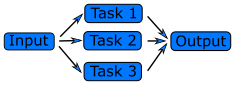
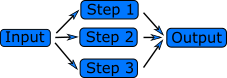
Steps instead of tasks in the diagrasm

Changed region(s): [[0.0, 0.0, 1.0, 1.0]]

diff --git a/_episodes/02-serial-and-parallel.md b/_episodes/02-serial-and-parallel.md
@@ -27,7 +27,7 @@ Well, it will be the time difference between the beginning of the steps and the 
 
 Now, you would like to build cars faster since there are impatient customers waiting in line!
 What do you do? You build two lines of conveyor belts and hire twice number of people to do the work.
-Now two cars per the same amount of time!
+Now you get two cars in the same amount of time!
 If you build three conveyor belts and hire thrice the number of people,
 you get three cars for the same amount of time.
 Or you can identify the steps which don't intefere with each other and can be executed at the same time
@@ -46,7 +46,7 @@ In the second case, the most important thing to consider is the indepedence of a
 (that is, whether a step can be executed without interfering other steps).
 This independency is called "atomicity" of an operation.
 
-In the analogy with car manufacturing, the speed of conveyor belt is the "clock" of CPU, parts are "input", doing something is "operation", and the car structure on the conveyor belt is "output". 
+In the analogy with car manufacturing, the speed of conveyor belt is the "clock" of CPU, parts are "input", doing something is an "operation", and the car structure on the conveyor belt is "output". 
 
 So, we can think of an algorithm as a series of black boxes with an input and an output.
 ![Input -> Algorithm -> Output]({{ page.root }}{% link files/serial_task_flow.png %})
@@ -58,7 +58,8 @@ parts and the output is a new car.
 
 If we want to produce a single car faster, maybe we can do some of the work in parallel.
 Let's say we can hire four workers ot attach each of the tires at the same time.
-All of these steps have the same input and they work together to create an output
+All of these steps have the same input, a car without tires,
+and they work together to create an output, a car with tires.
 ![Input -> Step 1 / Step 2 / Step 3 -> Output]({{ page.root }}{% link files/parallel_simple_flow.png %})
 
 
@@ -113,7 +114,7 @@ This step must be completed first, but the two tires can then be attached at the
 -->
 
 Any algorithm will have parallel regions and serial regions.
-The parallel algorithm can never run faster than the sum of the serial regions.
+The program can never run faster than the sum of the serial regions.
 Fortunately, the parallel part is often much larger than the serial part.
 
 >## Serial and Parallel regions
